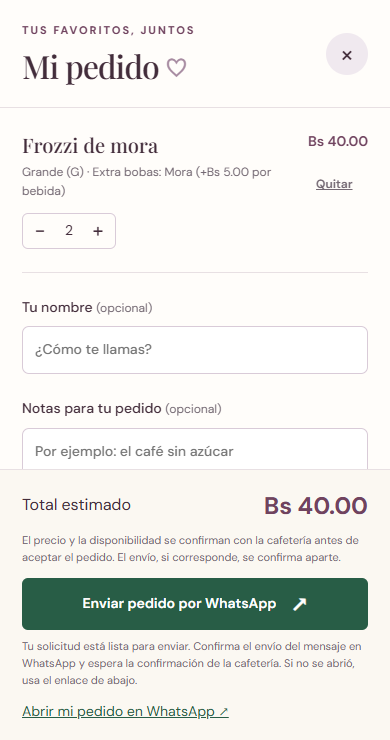
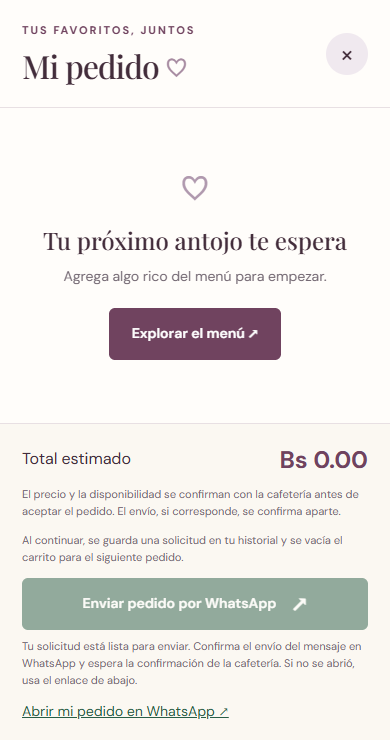
Conserva solicitudes y artículos en historial protegido

diff --git a/react-app/src/components/CartDialog.jsx b/react-app/src/components/CartDialog.jsx
@@ -4,8 +4,9 @@ import { money } from '../utils/format.js'
 import { ORDER_CONFIRMATION_NOTICE } from '../config.js'
 import Modal from './Modal.jsx'
 import CartItem from './CartItem.jsx'
+import OrderHistory from './OrderHistory.jsx'
 
-export default function CartDialog({ isOpen, session, items, total, savedName, savedNotes, busy, error, onRefresh, onSave, onClose, onChangeQuantity, onRemove, onBrowseMenu }) {
+export default function CartDialog({ isOpen, session, items, total, savedName, savedNotes, busy, error, onRefresh, onSave, onPrepare, onClose, onChangeQuantity, onRemove, onBrowseMenu }) {
   const [draft, setDraft] = useState(null)
   const name = draft?.name ?? savedName
   const notes = draft?.notes ?? savedNotes
@@ -14,7 +15,7 @@ export default function CartDialog({ isOpen, session, items, total, savedName, s
   const closeRef = useRef(null)
   const controls = useRef(new Map())
   const pendingFocus = useRef(null)
-  const showSent = sent && sent.items === items && sent.name === name && sent.notes === notes && sent.session === session
+  const showSent = sent && sent.session === session
   useLayoutEffect(() => {
     if (!pendingFocus.current) return
     const { index, action } = pendingFocus.current
@@ -39,9 +40,11 @@ export default function CartDialog({ isOpen, session, items, total, savedName, s
     if (!items.length || busy) return
     const popup = window.open('about:blank', '_blank')
     if (popup) popup.opener = null
-    const { data } = await save()
+    const { data } = await onPrepare(name, notes)
     if (!data || !data.items.length) { popup?.close(); return }
     const url = whatsappUrl(data.items, data.name, data.notes, item => item.unitPrice)
+    setDraft(null)
+    setSaved(false)
     setSent({ items: data.items, name: data.name, notes: data.notes, session, url })
     if (popup) popup.location.replace(url)
   }
@@ -64,10 +67,12 @@ export default function CartDialog({ isOpen, session, items, total, savedName, s
         <button className="primary" id="save-order" type="submit" disabled={busy}>Guardar datos del pedido</button>
         {saved && <p role="status">Datos guardados.</p>}
       </form>
+      {isOpen && <OrderHistory version={`${session}-${sent?.url || ''}`} />}
     </div>
     <div className="cart-footer">
       <div className="total"><span>Total estimado</span><strong id="cart-total">{money(total)}</strong></div>
       <p id="order-confirmation-notice">{ORDER_CONFIRMATION_NOTICE} El envío, si corresponde, se confirma aparte.</p>
+      <p className="order-help">Al continuar, se guarda una solicitud en tu historial y se vacía el carrito para el siguiente pedido.</p>
       <button id="checkout" className="primary whatsapp" disabled={!items.length || busy || Boolean(error)} aria-describedby="order-confirmation-notice" onClick={checkout}>Enviar pedido por WhatsApp <span aria-hidden="true">↗</span></button>
       <p id="checkout-status" role="status" hidden={!showSent}>Tu solicitud está lista para enviar. Confirma el envío del mensaje en WhatsApp y espera la confirmación de la cafetería. Si no se abrió, usa el enlace de abajo.</p>
       <a id="checkout-fallback" hidden={!showSent} href={sent?.url} target="_blank" rel="noopener noreferrer">Abrir mi pedido en WhatsApp ↗</a>

diff --git a/react-app/src/components/OrderHistory.jsx b/react-app/src/components/OrderHistory.jsx
@@ -1,0 +1,33 @@
+import { useEffect, useState } from 'react'
+import { loadHistory } from '../services/cart.js'
+import { money } from '../utils/format.js'
+import { details, whatsappUrl } from '../utils/cart.js'
+
+export default function OrderHistory({ version }) {
+  const [orders,setOrders] = useState([])
+  const [loading,setLoading] = useState(true)
+  const [error,setError] = useState('')
+  const [attempt,setAttempt] = useState(0)
+  useEffect(() => {
+    let active=true
+    loadHistory().then(data=>{ if(active){setOrders(data);setError('')} })
+      .catch(()=>{if(active)setError('No pudimos cargar tus solicitudes anteriores.')})
+      .finally(()=>{if(active)setLoading(false)})
+    return ()=>{active=false}
+  },[version,attempt])
+  return <section aria-labelledby="history-title" className="order-history">
+    <h3 id="history-title">Mis solicitudes anteriores</h3>
+    <p className="order-help">Últimas 50 solicitudes de esta sesión. Preparar el mensaje no confirma su envío ni la aceptación de la cafetería.</p>
+    {loading && <p role="status">Cargando historial…</p>}
+    {error && <p role="alert">{error} <button type="button" onClick={()=>{setLoading(true);setAttempt(n=>n+1)}}>Reintentar historial</button></p>}
+    {!loading && !error && !orders.length && <p>Aún no tienes solicitudes preparadas.</p>}
+    {orders.map(order=><details key={order.id} className="history-order">
+      <summary>Solicitud {order.id.slice(0,8)} · {money(order.total)}</summary>
+      <p>{new Date(order.created_at).toLocaleString('es-BO')} · Preparada</p>
+      {order.name && <p>Nombre: {order.name}</p>}
+      {order.notes && <p>Notas: {order.notes}</p>}
+      <ul>{order.items.map(item=><li key={item.position}>{item.quantity} × {item.name} · {money(item.unitPrice*item.quantity)}<br/>{details(item)}</li>)}</ul>
+      <a target="_blank" rel="noopener noreferrer" href={whatsappUrl(order.items,order.name,order.notes,item=>item.unitPrice)}>Abrir esta solicitud en WhatsApp ↗</a>
+    </details>)}
+  </section>
+}

diff --git a/react-app/src/hooks/useCart.js b/react-app/src/hooks/useCart.js
@@ -1,6 +1,6 @@
 import { useCallback, useEffect, useRef, useState } from 'react'
 import { itemKey, validItem } from '../utils/cart.js'
-import { cartError, changeCart, loadCart } from '../services/cart.js'
+import { cartError, changeCart, loadCart, prepareOrder } from '../services/cart.js'
 
 const EMPTY = { id: null, items: [], total: 0, name: '', notes: '' }
 
@@ -53,5 +53,24 @@ export default function useCart() {
     updateQuantity: (key, quantity) => mutate(quantity === 0 ? 'remove' : 'quantity', { lineId: lineId(key), quantity }),
     remove: key => mutate('remove', { lineId: lineId(key) }),
     save: (name, notes) => mutate('metadata', { name, notes }),
+    async prepare(name, notes) {
+      if (locked.current) return { error: 'Espera a que termine la operación anterior.' }
+      locked.current = true
+      setBusy(true)
+      try {
+        // Persist only an opaque retry ID, never personal fields. A lost response can be retried safely.
+        let requestId = localStorage.getItem('lilas-pending-order')
+        if (!requestId) { requestId = crypto.randomUUID(); localStorage.setItem('lilas-pending-order', requestId) }
+        const data = await prepareOrder(requestId, name, notes)
+        setCart(data.cart)
+        setError('')
+        localStorage.removeItem('lilas-pending-order')
+        return { data: data.order }
+      } catch (cause) {
+        const message = cartError(cause)
+        setError(message)
+        return { error: message }
+      } finally { locked.current = false; setBusy(false) }
+    },
   }
 }

diff --git a/react-app/src/services/cart.js b/react-app/src/services/cart.js
@@ -27,6 +27,11 @@ export async function loadCart() {
   await ensureSession()
   const { data, error } = await supabase.rpc('get_cart')
   if (error) throw error
+  const pending = localStorage.getItem('lilas-pending-order')
+  if (pending) {
+    const result = await supabase.from('order_history').select('id').eq('request_id', pending).limit(1)
+    if (!result.error && result.data.length) localStorage.removeItem('lilas-pending-order')
+  }
   return data
 }
 
@@ -36,4 +41,19 @@ export async function changeCart(action, payload) {
   if (error) throw error
   if (!data?.id || !Array.isArray(data.items)) throw new Error('Missing server confirmation')
   return data
+}
+
+export async function prepareOrder(requestId, name, notes) {
+  await ensureSession()
+  const { data, error } = await supabase.rpc('prepare_order', { request_id: requestId, customer_name: name, customer_notes: notes })
+  if (error) throw error
+  if (!data?.order?.id || !data?.cart) throw new Error('Missing order confirmation')
+  return data
+}
+
+export async function loadHistory() {
+  await ensureSession()
+  const { data, error } = await supabase.from('order_history').select('id,created_at,status,name,notes,total,order_history_items(*)').order('created_at', { ascending: false }).limit(50)
+  if (error) throw error
+  return data.map(order => ({ ...order, items: order.order_history_items.sort((a,b) => a.position-b.position).map(item => ({ ...item, id: item.product_id, name: item.product_name, unitPrice: item.unit_price })) }))
 }

diff --git a/react-app/src/App.jsx b/react-app/src/App.jsx
@@ -45,7 +45,7 @@ export default function App() {
     <main ref={mainRef} tabIndex={-1} className={path === '/' ? undefined : 'route-view'}><ErrorBoundary key={path}><PageContent path={path} catalog={catalog} onSelectProduct={setProduct} /></ErrorBoundary></main>
     <SiteFooter />
     {product && <ProductDialog key={product.id} product={product} busy={cart.busy} onClose={() => setProduct(null)} onAdd={addToCart} />}
-    <CartDialog isOpen={cartOpen} session={cartSession} items={cart.items} total={cart.total} savedName={cart.name} savedNotes={cart.notes} busy={cart.busy} error={cart.error} onRefresh={cart.refresh} onSave={cart.save} onClose={() => setCartOpen(false)} onChangeQuantity={cart.updateQuantity} onRemove={cart.remove} onBrowseMenu={() => { setCartOpen(false); navigate('/menu') }} />
+    <CartDialog isOpen={cartOpen} session={cartSession} items={cart.items} total={cart.total} savedName={cart.name} savedNotes={cart.notes} busy={cart.busy} error={cart.error} onRefresh={cart.refresh} onSave={cart.save} onPrepare={cart.prepare} onClose={() => setCartOpen(false)} onChangeQuantity={cart.updateQuantity} onRemove={cart.remove} onBrowseMenu={() => { setCartOpen(false); navigate('/menu') }} />
     <Toast message={message} onDismiss={dismissToast} />
   </>
 }

diff --git a/react-app/src/index.css b/react-app/src/index.css
@@ -39,5 +39,6 @@ html{scroll-padding-top:130px}
 @media(max-width:360px){.header nav{gap:15px;font-size:11px}}
 
 /* Routed views share the original Lilas styles. */
+.order-history{margin-top:24px;border-top:1px solid #d6c5cf;padding-top:18px}.history-order{padding:12px 0;border-bottom:1px solid #d6c5cf;font-size:13px}.history-order summary{cursor:pointer;font-weight:600}.history-order p,.history-order ul{margin:8px 0}.history-order a{color:var(--plum);text-decoration:underline}.history-order{overflow-wrap:anywhere}
 .order-help{font-size:12px;color:var(--muted);margin:12px 0}#save-order{font-size:13px;margin-bottom:12px}
 main:focus{outline:none}.route-view{min-height:60vh;padding-block:32px}.route-message{max-width:760px;margin:40px auto;padding:24px;text-align:center}.route-message .primary{width:fit-content;margin:24px auto}.route-message>p{margin-block:16px}.header nav a[aria-current=page]{color:var(--plum);text-decoration:underline;text-underline-offset:6px}

diff --git a/react-app/src/utils/cart.js b/react-app/src/utils/cart.js
@@ -64,7 +64,7 @@ export function details(item) {
 
 export function buildMessage(items, name = '', notes = '', priceFor = unitPrice) {
   return ['¡Hola, Lilas! 🌸 Quisiera hacer este pedido:', name.trim() ? `\nNombre: ${name.trim()}` : '', '',
-    ...items.map(item => `• ${item.quantity} × ${productFor(item).name}\n  ${details(item)}\n  Precio unitario: ${money(priceFor(item))} · Subtotal: ${money(priceFor(item) * item.quantity)}`),
+    ...items.map(item => `• ${item.quantity} × ${item.name || productFor(item).name}\n  ${details(item)}\n  Precio unitario: ${money(priceFor(item))} · Subtotal: ${money(priceFor(item) * item.quantity)}`),
     '', `*Total estimado: ${money(items.reduce((sum, item) => sum + priceFor(item) * item.quantity, 0))}*`, ORDER_CONFIRMATION_NOTICE, notes.trim() ? `\nNotas: ${notes.trim()}` : '',
     '\n¿Me confirman disponibilidad y cómo coordinar la entrega o el recojo? El total no incluye envío. ¡Gracias!'].join('\n')
 }

diff --git a/.docs/supabase-integration/HISTORIAL.md b/.docs/supabase-integration/HISTORIAL.md
@@ -1,0 +1,35 @@
+# Historial de solicitudes
+
+Cambio aplicado el 23 de noviembre de 2026. Antes, `orders` y `order_items` solo representaban un carrito mutable. Quitar artículos eliminaba sus filas, y abrir WhatsApp no conservaba una solicitud independiente.
+
+## Modelo y flujo
+
+- `orders` / `order_items`: conservan el carrito editable existente; no se borraron carritos durante la migración.
+- `order_history`: una fila por solicitud preparada, propietario, identificador, fecha, nombre, notas, estado `prepared` y total calculado.
+- `order_history_items`: copia de producto, nombre, tamaño, opciones, cantidad y precio unitario de ese momento. No depende de relaciones al catálogo que puedan eliminar las líneas históricas.
+- `prepare_order`: guarda el historial y sus artículos y vacía el carrito en una sola transacción. Si algo falla, todo se revierte. Un UUID por intento evita duplicados al reintentar una respuesta perdida; llamadas simultáneas con la misma clave devuelven la misma solicitud.
+- El cliente conserva solo el identificador de reintento en almacenamiento local. Al actualizar el carrito comprueba si la solicitud pendiente ya existe para recuperar la operación.
+- El botón de WhatsApp espera el guardado remoto y usa la copia histórica. El visitante puede empezar otro pedido inmediatamente. El historial permite abrir otra vez el mensaje sin crear otra solicitud.
+
+## Permisos
+
+RLS limita la lectura del historial a su propietario. `anon` no tiene acceso. `authenticated` solo tiene SELECT, no INSERT/UPDATE/DELETE sobre las dos tablas nuevas. La única entrada de escritura del cliente es `prepare_order`, SECURITY DEFINER con search_path vacío, identidad obtenida de `auth.uid()` y precios del servidor. No recibe propietario ni importes del cliente. Esta excepción es necesaria para insertar registros inmutables sin conceder escritura directa a los visitantes.
+
+La eliminación administrativa de una cuenta Auth elimina sus registros en cascada, igual que el modelo previo; no hay botón de eliminar cuenta ni historial en la aplicación. La limpieza automática de usuarios anónimos en producción debe considerar esta retención.
+
+## Interfaz
+
+“Mis solicitudes anteriores” está dentro del carrito. Muestra las últimas 50 de la sesión actual, con fecha, estado, importe y detalles desplegables. No hay administrador ni historial compartido entre dispositivos. Si se pierde la sesión anónima, esos registros permanecen en la base pero el visitante ya no tiene acceso a ellos.
+
+`prepared` significa **solicitud preparada**, no enviada, pagada ni aceptada. Abrir WhatsApp no permite comprobar si el usuario envió el mensaje. No se reconstruyeron compras antiguas ni se convirtieron carritos existentes en compras ficticias.
+
+## Validación
+
+- `tests/history.mjs`: dos solicitudes distintas, carrito vacío tras preparación, historial conservado tras editar/eliminar el siguiente carrito, dos preparaciones concurrentes con la misma clave sin duplicado, reintento después de borrar el carrito, carrito vacío rechazado, lectura cruzada denegada, escritura directa denegada y acceso anon rechazado. Usa clave pública y dos usuarios ficticios.
+- `tests/history-ui.mjs`: dos solicitudes desde el navegador, recarga, detalles, enlace WhatsApp histórico y diseño móvil sin errores de runtime.
+- Pruebas previas de formulario, confirmación y SPA adaptadas al nuevo vaciado del carrito tras preparar la solicitud.
+- Nueva migración: `20261123000100_order_history.sql`; no se modificó la migración anterior.
+
+Los escenarios anteriores se ejecutan contra Supabase real. La apertura de WhatsApp se intercepta para no enviar mensajes. Los usuarios ficticios se registran para su limpieza, incluyendo sus solicitudes históricas.
+
+Resultado de esta ejecución: lint y build aprobados; 8 unitarias aprobadas; history, history-ui, remote-ui, confirmation (360/390/1440) y SPA (desarrollo/build) aprobados. Se eliminaron los 10 usuarios ficticios creados por estas pruebas y sus registros asociados. Captura revisada: [historial móvil](../evidencias/historial-390.png). La aplicación previa de Netlify seguirá sin crear historial hasta desplegar el código actualizado.

diff --git a/react-app/README.md b/react-app/README.md
@@ -94,6 +94,14 @@ El carrito y WhatsApp muestran **Total estimado** y aclaran que el precio y la d
 
 ## Supabase remoto
 
+### Historial de solicitudes (23 de noviembre de 2026)
+
+Al pulsar **Enviar pedido por WhatsApp**, se guarda una solicitud independiente con sus artículos y precios y se vacía el carrito para iniciar otro. El guardado es atómico; un reintento de la misma operación no duplica la solicitud. **Mis solicitudes anteriores**, dentro del carrito, permite consultar las últimas 50 de la sesión y volver a abrir el mensaje. El estado es **Preparada**: no acredita envío, aceptación ni pago.
+
+Las tablas `orders` y `order_items` siguen siendo el carrito editable. Los registros permanentes de solicitudes se encuentran en `order_history` y `order_history_items`, protegidos por RLS y sin permisos de escritura directa para visitantes. No se recuperan pedidos borrados antes de este cambio.
+
+Migración adicional: `20261123000100_order_history.sql`. Pruebas: `node tests/history.mjs` y `node tests/history-ui.mjs` (esta última usa las variables de Playwright ya documentadas). Detalles y límites en [HISTORIAL.md](../.docs/supabase-integration/HISTORIAL.md).
+
 Proyecto existente: `zasciyldjbqjlidznvsc` (Lilas), región São Paulo, organización con plan `free` verificado. No volver a crear el proyecto. Desde `react-app`, después de `npx supabase login`:
 
 ```powershell

diff --git a/.docs/supabase-integration/CHECKLIST.md b/.docs/supabase-integration/CHECKLIST.md
@@ -1,5 +1,7 @@
 # Checklist de integración con Supabase
 
+Actualización del 23 de noviembre: historial independiente implementado y probado. Ver [HISTORIAL.md](HISTORIAL.md). Las menciones siguientes al alcance sin historial describen la entrega anterior.
+
 Estado: integración remota, esquema, CRUD, RLS y navegador verificados. Pendiente externo: publicar la versión actualizada en Netlify con sus variables públicas.
 
 - [x] Revisar proyecto y validar PDF. Fuente autorizada: `.docs/ER-CRUD/Lilas_entidad_y_matriz_CRUD.pdf`, página 1; extracción y captura en FUENTE-MODELO.md. Original movido sin alterar.

diff --git a/.docs/supabase-integration/ANALISIS.md b/.docs/supabase-integration/ANALISIS.md
@@ -1,5 +1,7 @@
 # Análisis de modelo e integración
 
+Actualización del 23 de noviembre: la aplicación ahora conserva solicitudes preparadas en tablas históricas independientes. Modelo, permisos y pruebas de esta ampliación: [HISTORIAL.md](HISTORIAL.md). El análisis siguiente documenta la primera integración, anterior a esa ampliación.
+
 ## Fuente y alcance
 
 Fuente autorizada: `.docs/ER-CRUD/Lilas_entidad_y_matriz_CRUD.pdf`, página 1. Texto y captura en [FUENTE-MODELO.md](FUENTE-MODELO.md). `Foro3.pdf` es una evidencia de seguridad y no define el modelo; se conserva intacto.

diff --git a/README.md b/README.md
@@ -1,6 +1,6 @@
 # Lilas · Cafetería
 
-SPA con React, JavaScript/JSX y Vite. Incluye catálogo de 18 productos, personalización de bebidas, carrito persistente en Supabase y preparación de pedidos por WhatsApp.
+SPA con React, JavaScript/JSX y Vite. Incluye catálogo de 18 productos, personalización de bebidas, carrito persistente en Supabase, historial de solicitudes con sus precios y preparación de pedidos por WhatsApp.
 
 ## Ejecutar
 
